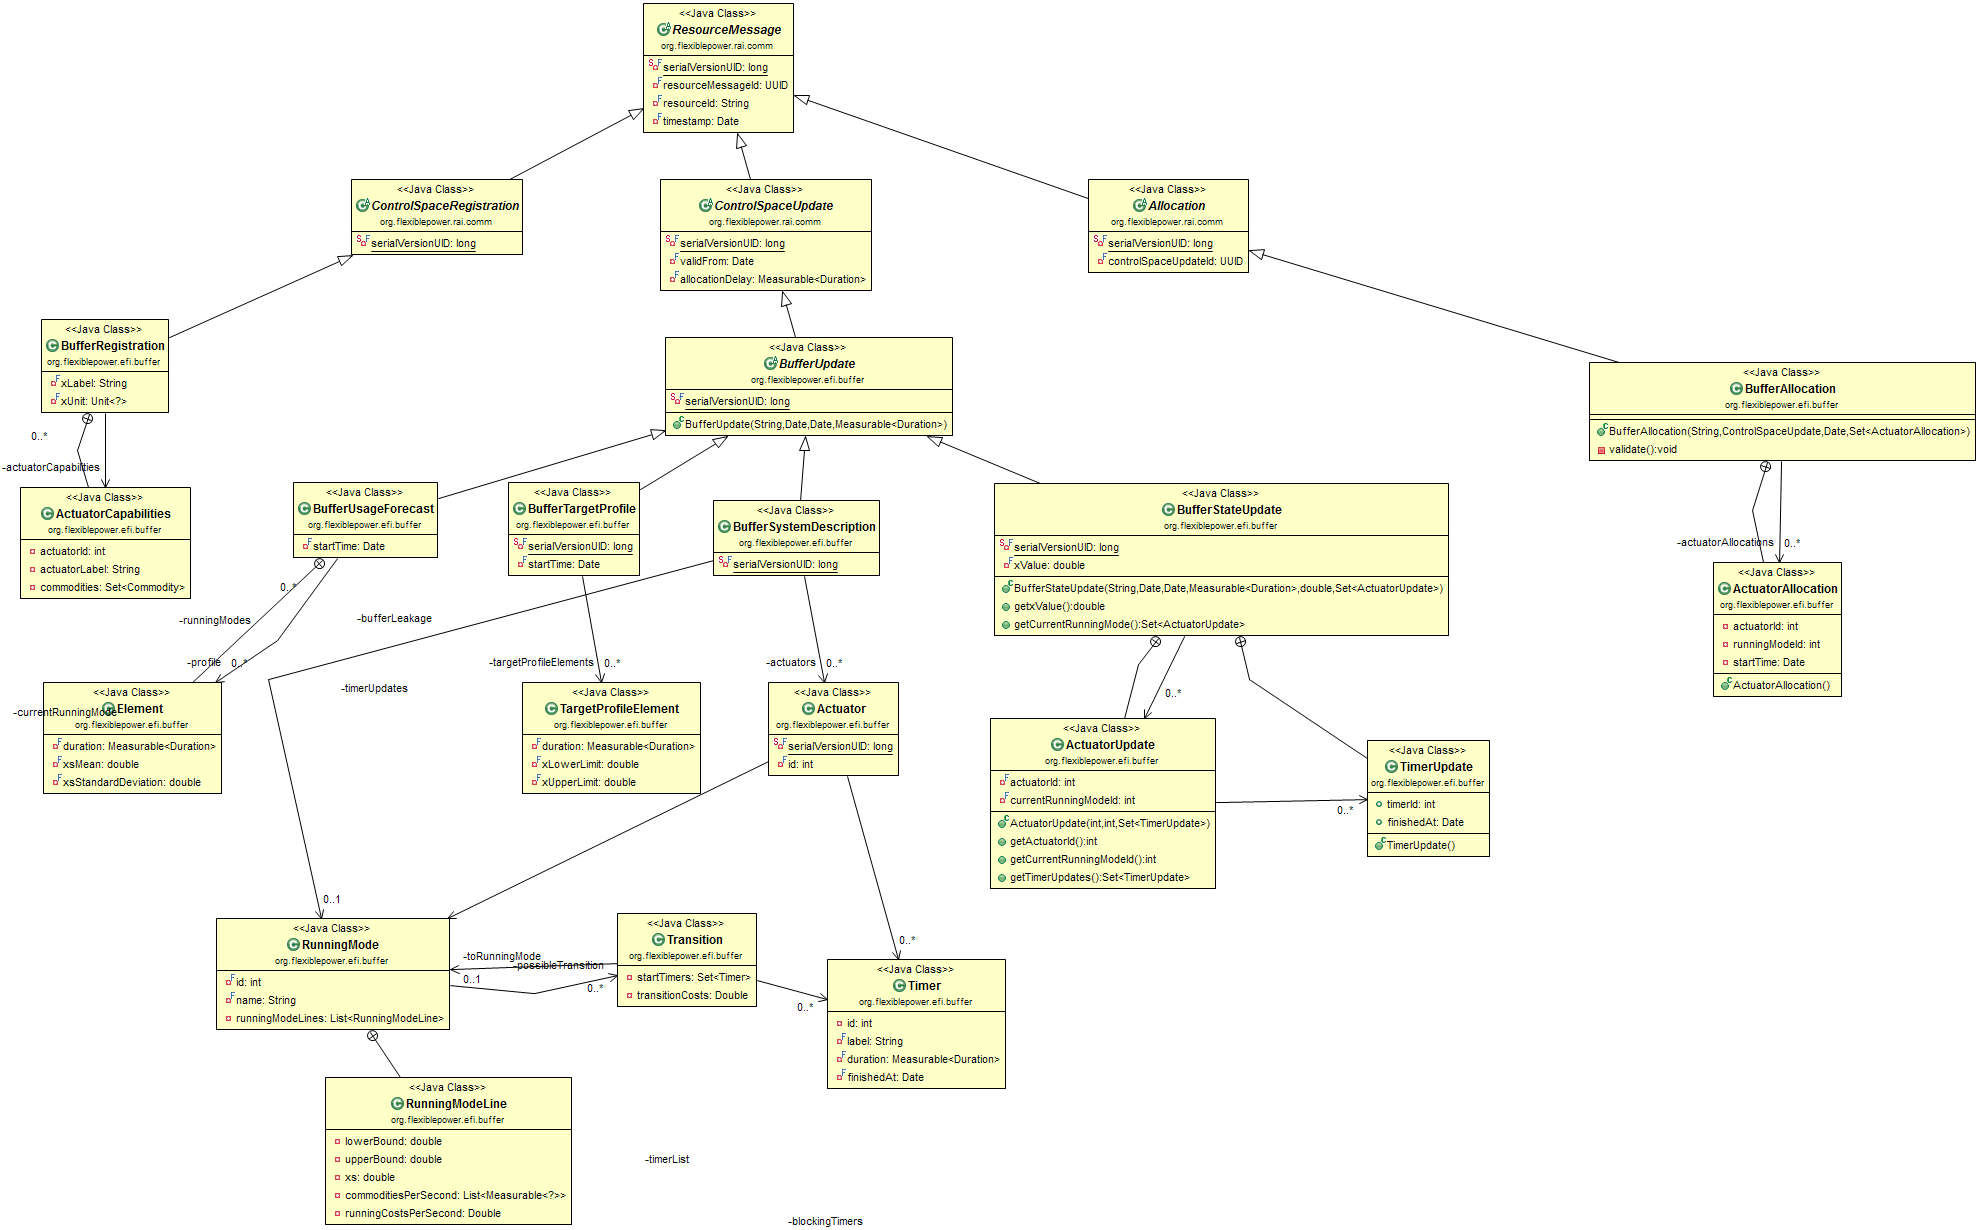
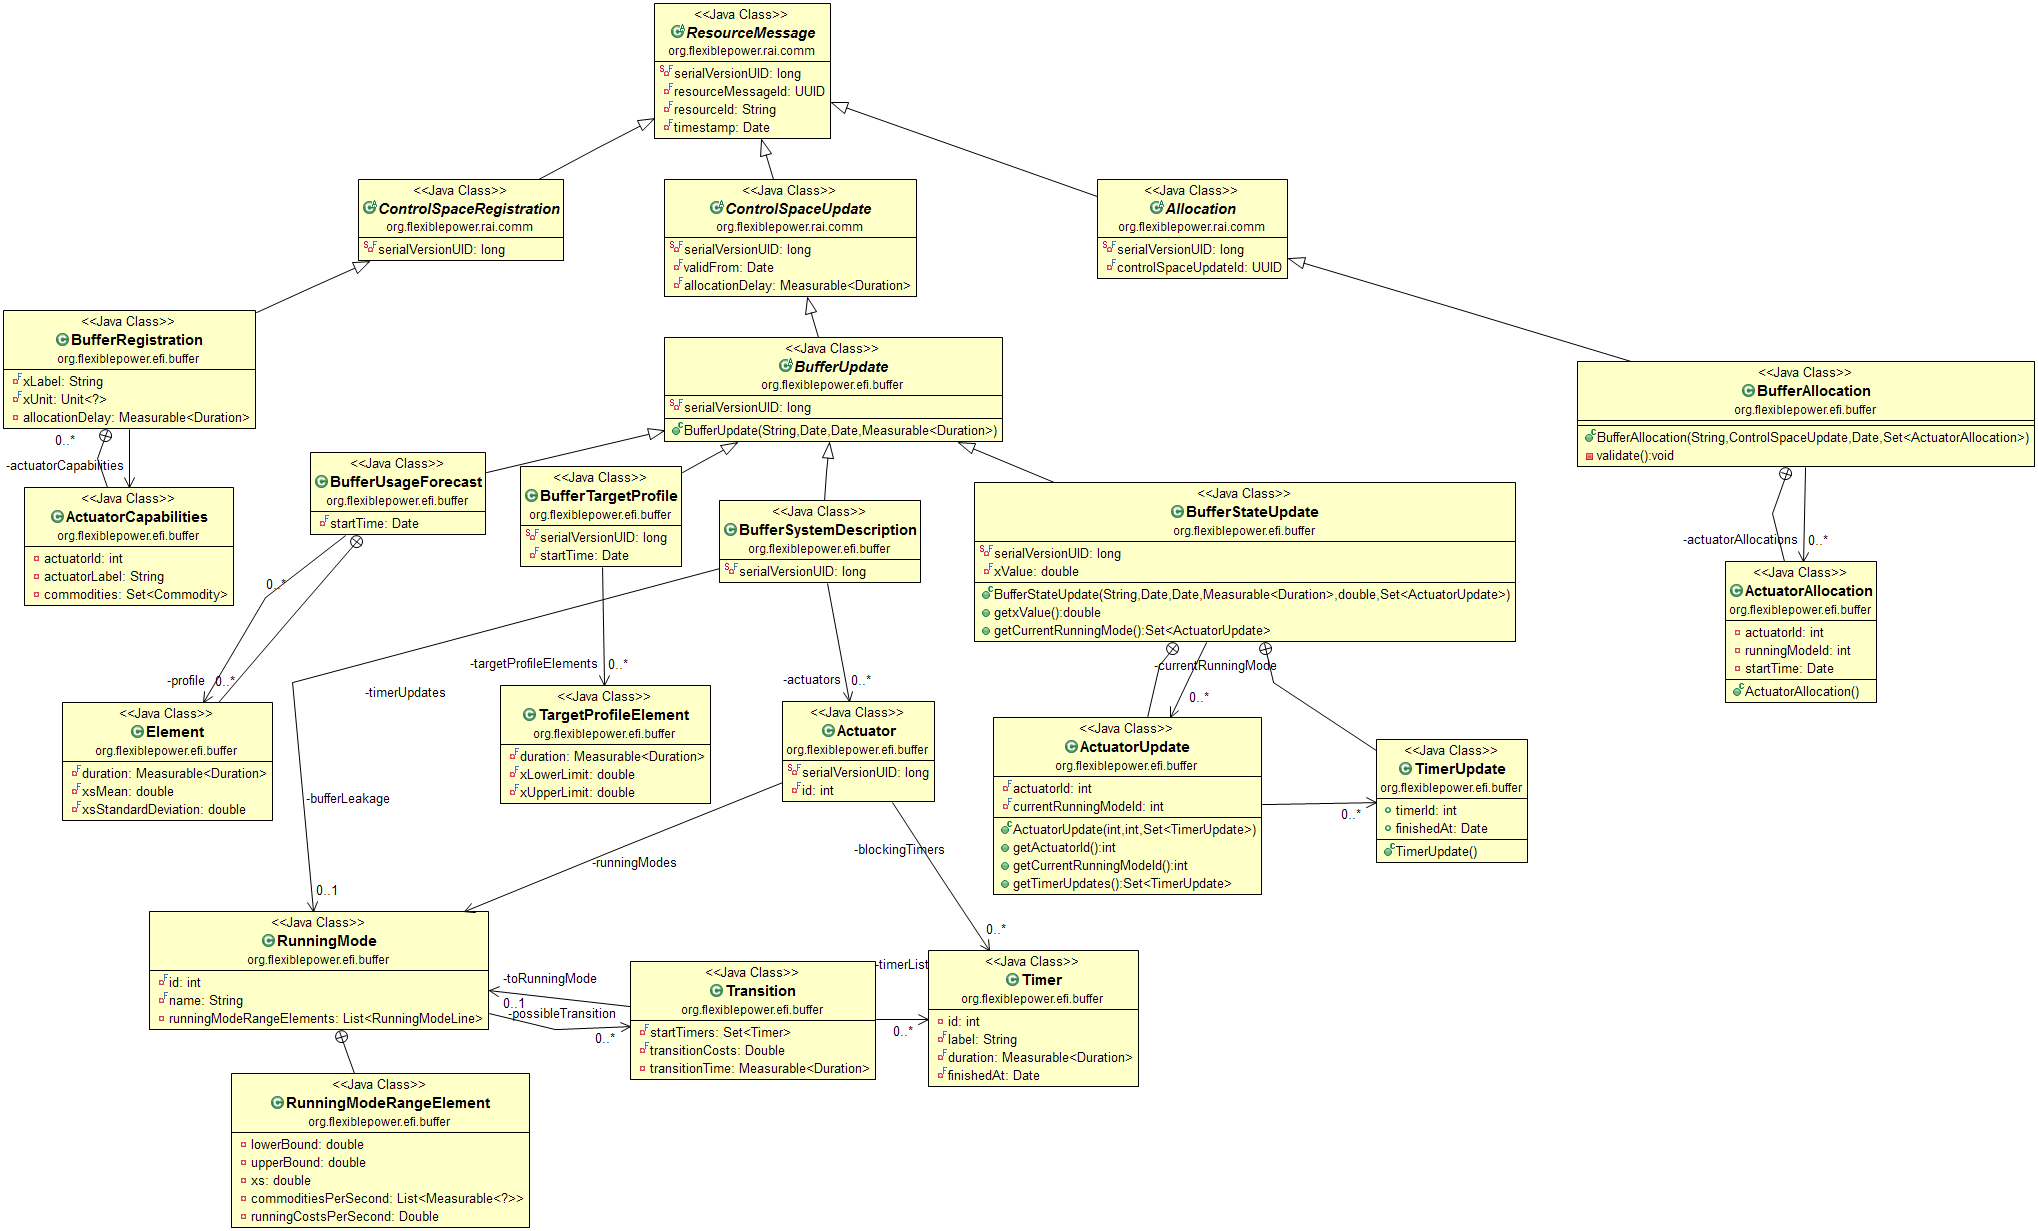
moved AllocationDelay to Transition Renamed RunningModeLine Some name changes

diff --git a/flexiblepower.api.efi/src/org/flexiblepower/efi/buffer/RunningMode.java b/flexiblepower.api.efi/src/org/flexiblepower/efi/buffer/RunningMode.java
@@ -10,21 +10,21 @@ public class RunningMode {
 
 	private final String name;
 
-	private List<RunningModeLine> runningModeLines;
+	private List<RunningModeRangeElement> runningModeRangeElements;
 
 	private List<Transition> possibleTransition;
 
 	public RunningMode(int id, String name) {
 		this.id = id;
 		this.name = name;
-		this.runningModeLines = new ArrayList<RunningMode.RunningModeLine>();
+		this.runningModeRangeElements = new ArrayList<RunningMode.RunningModeRangeElement>();
 	}
 
-	public void addLine(RunningModeLine line) {
-		runningModeLines.add(line);
+	public void addLine(RunningModeRangeElement line) {
+		runningModeRangeElements.add(line);
 	}
 
-	public static class RunningModeLine {
+	public static class RunningModeRangeElement {
 
 		// Defines the range of the line
 		private double lowerBound;
@@ -40,7 +40,7 @@ public class RunningMode {
 		// Optional: Running costs for this runningmode expressed per second
 		private Double runningCostsPerSecond;
 
-		public RunningModeLine(double rangeLow, double rangeUp, double xs,
+		public RunningModeRangeElement(double rangeLow, double rangeUp, double xs,
 				List<Measurable<?>> commodities, Double runningCostsPerSecond) {
 			this.upperBound = rangeLow;
 			this.lowerBound = rangeUp;

diff --git a/flexiblepower.api.efi/src/org/flexiblepower/efi/buffer/BufferRegistration.java b/flexiblepower.api.efi/src/org/flexiblepower/efi/buffer/BufferRegistration.java
@@ -3,13 +3,15 @@ package org.flexiblepower.efi.buffer;
 import java.util.Date;
 import java.util.Set;
 
+import javax.measure.Measurable;
+import javax.measure.quantity.Duration;
 import javax.measure.unit.Unit;
 
 import org.flexiblepower.rai.comm.ControlSpaceRegistration;
 import org.flexiblepower.rai.values.Commodity;
 
 public class BufferRegistration extends ControlSpaceRegistration {
-	
+
 	/**
 	 * The label of x for display purposes in the UI
 	 */
@@ -20,13 +22,19 @@ public class BufferRegistration extends ControlSpaceRegistration {
 	 */
 	private final Unit<?> xUnit;
 
+	/**
+	 * The duration of the delay in communications channel from the moment of
+	 * sending to the moment the command is executed up by the device.
+	 */
+	private Measurable<Duration> allocationDelay;
+
 	public static class ActuatorCapabilities {
 		private int actuatorId;
 		private String actuatorLabel;
 		private Set<Commodity> commodities;
 	}
 
-	private Set<ActuatorCapabilities> actuatorCapabilities;
+	private final Set<ActuatorCapabilities> actuatorCapabilities;
 
 	public BufferRegistration(String resourceId, Date timestamp, String xLabel,
 			Unit<?> xUnit, Set<ActuatorCapabilities> actuatorCapabilities) {

diff --git a/flexiblepower.api.efi/src/org/flexiblepower/efi/buffer/Transition.java b/flexiblepower.api.efi/src/org/flexiblepower/efi/buffer/Transition.java
@@ -2,17 +2,23 @@ package org.flexiblepower.efi.buffer;
 
 import java.util.Set;
 
+import javax.measure.Measurable;
+import javax.measure.quantity.Duration;
+
 public class Transition {
 	private final RunningMode toRunningMode;
 
 	/** Timers to be (re)started when this transition is made */
-	private Set<Timer> startTimers;
+	private final Set<Timer> startTimers;
 
 	/** This transition can only be made when all these timers are finished */
-	private Set<Timer> blockingTimers;
+	private final Set<Timer> blockingTimers;
 
 	// Optional: The costs of a transition
-	private Double transitionCosts;
+	private final Double transitionCosts;
+
+	/** The time duration it takes for a transition */
+	private Measurable<Duration> transitionTime;
 
 	public Transition(RunningMode toRunningMode, Set<Timer> startTimers,
 			Set<Timer> blockingTimers, Double transitionCosts) {

diff --git a/flexiblepower.api/src/org/flexiblepower/rai/comm/ControlSpaceUpdate.java b/flexiblepower.api/src/org/flexiblepower/rai/comm/ControlSpaceUpdate.java
@@ -15,6 +15,7 @@ public abstract class ControlSpaceUpdate extends ResourceMessage {
      */
     private final Date validFrom;
 
+    // TODO Delete this field.
     private final Measurable<Duration> allocationDelay;
 
     public ControlSpaceUpdate(String resourceId, Date timestamp, Date validFrom, Measurable<Duration> allocationDelay) {

diff --git a/flexiblepower.api.efi/src/org/flexiblepower/efi/buffer/BufferSystemDescription.java b/flexiblepower.api.efi/src/org/flexiblepower/efi/buffer/BufferSystemDescription.java
@@ -36,4 +36,14 @@ public class BufferSystemDescription extends BufferUpdate {
 		return bufferLeakage;
 	}
 
+	public double getMinimumFillLevel() {
+		// TODO: implement
+		return 0;
+	}
+
+	public double getMaximumFillLevel() {
+		// TODO: implement
+		return 0;
+	}
+
 }

diff --git a/flexiblepower.api.efi/src/org/flexiblepower/efi/buffer/Timer.java b/flexiblepower.api.efi/src/org/flexiblepower/efi/buffer/Timer.java
@@ -9,6 +9,7 @@ public class Timer {
 
 	private int id;
 	private final String label;
+	/** Total duration of this timer. It includes the transition period. */
 	private final Measurable<Duration> duration;
 	private final Date finishedAt;
 
